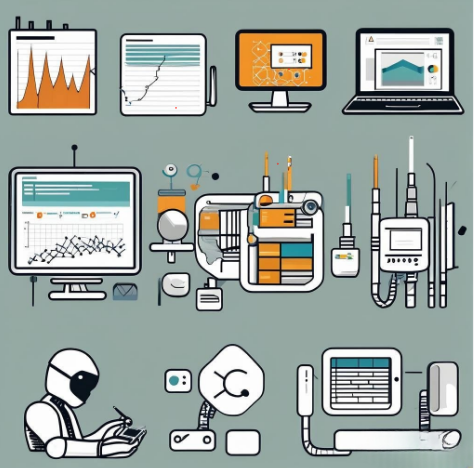
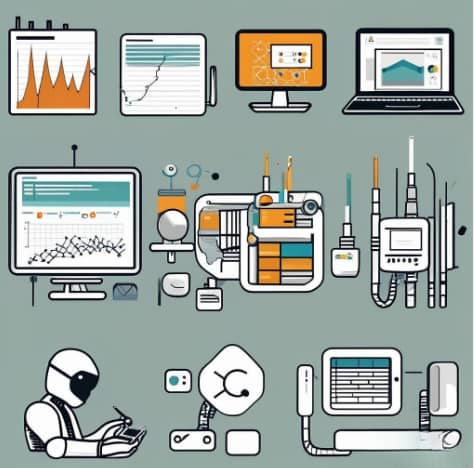
update: compress imgs

diff --git a/site/index.html b/site/index.html
@@ -171,9 +171,9 @@
 <script>
   var getUpdateTime = function () {
       var currentTime = new Date();
-      var updateTime = new Date(`2024-07-23 11:17:12`);
+      var updateTime = new Date(`2024-07-24 17:36:21`);
       var timeDiff = currentTime - updateTime;
-      var relativeTime = `2024-07-23 11:17:12`;
+      var relativeTime = `2024-07-24 17:36:21`;
       if (timeDiff < 60000) {  // 小于1分钟
           relativeTime = "刚刚更新";
       }
@@ -198,5 +198,5 @@
 
 <!--
 MkDocs version : 1.5.3
-Build Date UTC : 2024-07-23 03:17:13.095198+00:00
+Build Date UTC : 2024-07-24 09:36:21.597291+00:00
 -->

diff --git a/site/basic/index.html b/site/basic/index.html
@@ -558,9 +558,9 @@ def divice(a:float, b:float)-&gt;float:
 <script>
   var getUpdateTime = function () {
       var currentTime = new Date();
-      var updateTime = new Date(`2024-07-23 11:17:12`);
+      var updateTime = new Date(`2024-07-24 17:36:21`);
       var timeDiff = currentTime - updateTime;
-      var relativeTime = `2024-07-23 11:17:12`;
+      var relativeTime = `2024-07-24 17:36:21`;
       if (timeDiff < 60000) {  // 小于1分钟
           relativeTime = "刚刚更新";
       }

diff --git a/site/OOP/index.html b/site/OOP/index.html
@@ -270,9 +270,9 @@ black_and_white_printer.print(content)
 <script>
   var getUpdateTime = function () {
       var currentTime = new Date();
-      var updateTime = new Date(`2024-07-23 11:17:12`);
+      var updateTime = new Date(`2024-07-24 17:36:21`);
       var timeDiff = currentTime - updateTime;
-      var relativeTime = `2024-07-23 11:17:12`;
+      var relativeTime = `2024-07-24 17:36:21`;
       if (timeDiff < 60000) {  // 小于1分钟
           relativeTime = "刚刚更新";
       }

diff --git a/site/404.html b/site/404.html
@@ -147,9 +147,9 @@
 <script>
   var getUpdateTime = function () {
       var currentTime = new Date();
-      var updateTime = new Date(`2024-07-23 11:17:12`);
+      var updateTime = new Date(`2024-07-24 17:36:21`);
       var timeDiff = currentTime - updateTime;
-      var relativeTime = `2024-07-23 11:17:12`;
+      var relativeTime = `2024-07-24 17:36:21`;
       if (timeDiff < 60000) {  // 小于1分钟
           relativeTime = "刚刚更新";
       }

diff --git a/site/experience/index.html b/site/experience/index.html
@@ -185,9 +185,9 @@
 <script>
   var getUpdateTime = function () {
       var currentTime = new Date();
-      var updateTime = new Date(`2024-07-23 11:17:12`);
+      var updateTime = new Date(`2024-07-24 17:36:21`);
       var timeDiff = currentTime - updateTime;
-      var relativeTime = `2024-07-23 11:17:12`;
+      var relativeTime = `2024-07-24 17:36:21`;
       if (timeDiff < 60000) {  // 小于1分钟
           relativeTime = "刚刚更新";
       }

diff --git a/site/paradigm/index.html b/site/paradigm/index.html
@@ -243,9 +243,9 @@
 <script>
   var getUpdateTime = function () {
       var currentTime = new Date();
-      var updateTime = new Date(`2024-07-23 11:17:12`);
+      var updateTime = new Date(`2024-07-24 17:36:21`);
       var timeDiff = currentTime - updateTime;
-      var relativeTime = `2024-07-23 11:17:12`;
+      var relativeTime = `2024-07-24 17:36:21`;
       if (timeDiff < 60000) {  // 小于1分钟
           relativeTime = "刚刚更新";
       }

diff --git a/site/recommend/index.html b/site/recommend/index.html
@@ -201,9 +201,9 @@
 <script>
   var getUpdateTime = function () {
       var currentTime = new Date();
-      var updateTime = new Date(`2024-07-23 11:17:12`);
+      var updateTime = new Date(`2024-07-24 17:36:21`);
       var timeDiff = currentTime - updateTime;
-      var relativeTime = `2024-07-23 11:17:12`;
+      var relativeTime = `2024-07-24 17:36:21`;
       if (timeDiff < 60000) {  // 小于1分钟
           relativeTime = "刚刚更新";
       }

diff --git a/site/search.html b/site/search.html
@@ -154,9 +154,9 @@
 <script>
   var getUpdateTime = function () {
       var currentTime = new Date();
-      var updateTime = new Date(`2024-07-23 11:17:12`);
+      var updateTime = new Date(`2024-07-24 17:36:21`);
       var timeDiff = currentTime - updateTime;
-      var relativeTime = `2024-07-23 11:17:12`;
+      var relativeTime = `2024-07-24 17:36:21`;
       if (timeDiff < 60000) {  // 小于1分钟
           relativeTime = "刚刚更新";
       }

diff --git a/site/start/index.html b/site/start/index.html
@@ -376,9 +376,9 @@
 <script>
   var getUpdateTime = function () {
       var currentTime = new Date();
-      var updateTime = new Date(`2024-07-23 11:17:12`);
+      var updateTime = new Date(`2024-07-24 17:36:21`);
       var timeDiff = currentTime - updateTime;
-      var relativeTime = `2024-07-23 11:17:12`;
+      var relativeTime = `2024-07-24 17:36:21`;
       if (timeDiff < 60000) {  // 小于1分钟
           relativeTime = "刚刚更新";
       }

diff --git a/site/todo/index.html b/site/todo/index.html
@@ -168,9 +168,9 @@
 <script>
   var getUpdateTime = function () {
       var currentTime = new Date();
-      var updateTime = new Date(`2024-07-23 11:17:12`);
+      var updateTime = new Date(`2024-07-24 17:36:21`);
       var timeDiff = currentTime - updateTime;
-      var relativeTime = `2024-07-23 11:17:12`;
+      var relativeTime = `2024-07-24 17:36:21`;
       if (timeDiff < 60000) {  // 小于1分钟
           relativeTime = "刚刚更新";
       }
